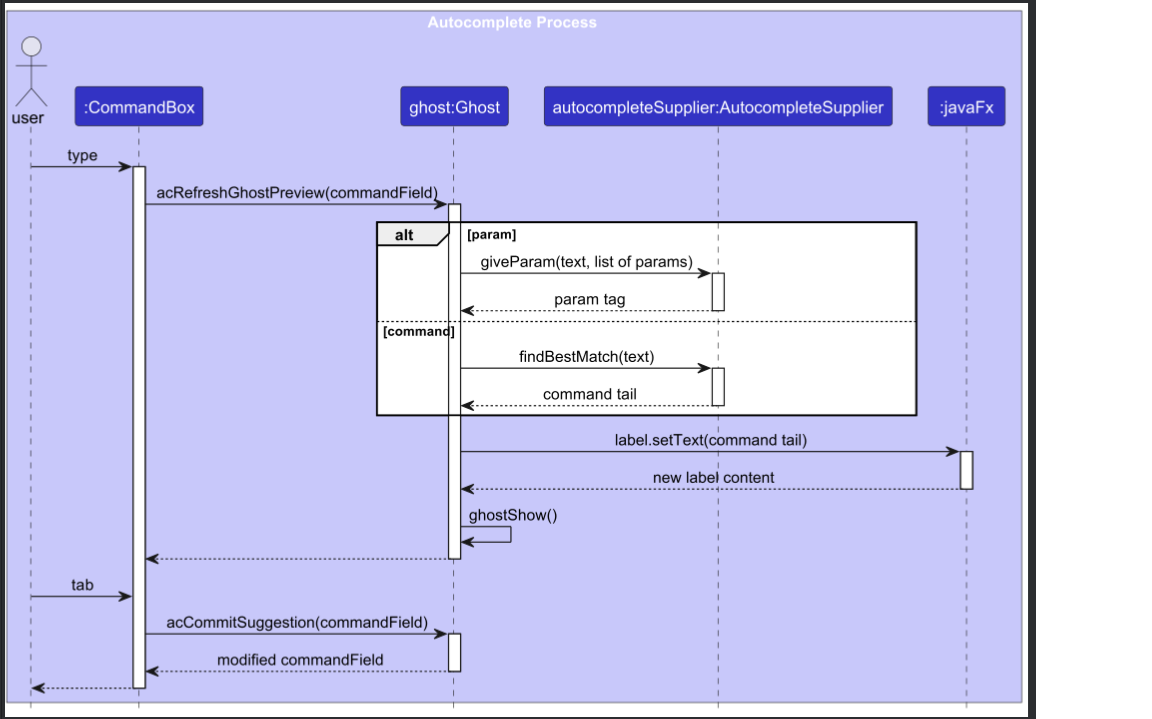
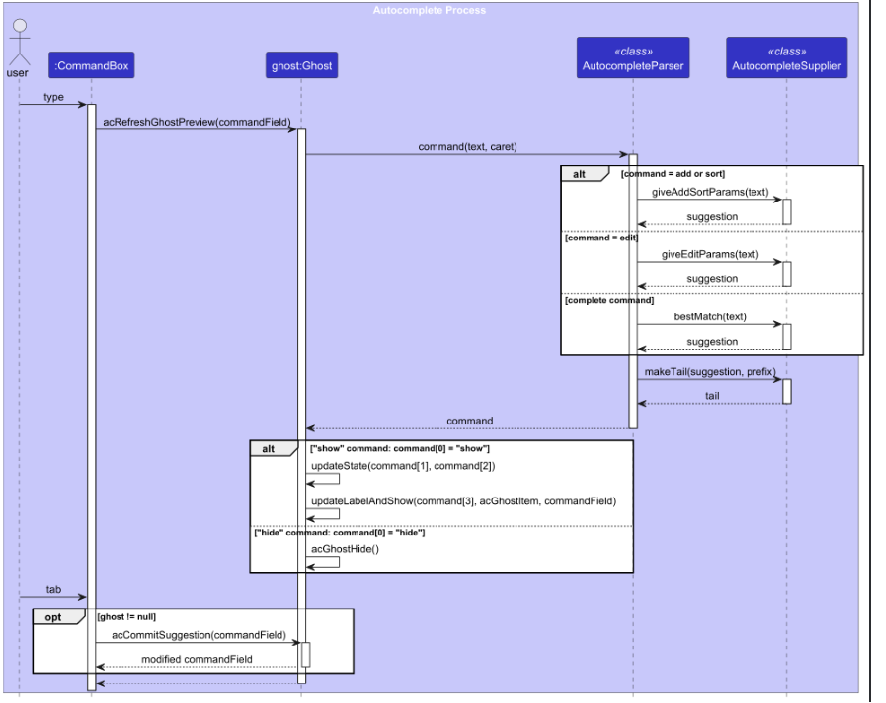
Update paragraph with diagram

diff --git a/docs/DeveloperGuide.md b/docs/DeveloperGuide.md
@@ -255,6 +255,20 @@ _{Explain here how the data archiving feature will be implemented}_
 ### Command History
 <img src="images/CommandHistorySequenceDiagram.png" width="850" />
 
+### Autocomplete
+Autocomplete consists of three classes: 
+1. ghost: interacteds with commandTextField.
+2. autoCompleteParser: parses text passed in by ghost, generates "command" array that is 
+an array of string that passes necessary information to be used by ghost.
+3. autoCompleteSupplier: provides autocomplete suggestions and "tail", that is the substring 
+of suggestion to be filled upon user confirmation.
+
+Autocomplete is not implemented as a command, as it does not interact with storage classes. For similar reasons, its 
+parser also does not implement parser interface. 
+
+<img src="images/AutoComplete-sequence.png" width="850" />
+<img src="images/AutoComplete activity diagram main.png" width="850" />
+<img src="images/AutoComplete parser activity diagram.png" width="850" />
 --------------------------------------------------------------------------------------------------------------------
 
 ## **Documentation, logging, testing, configuration, dev-ops**
